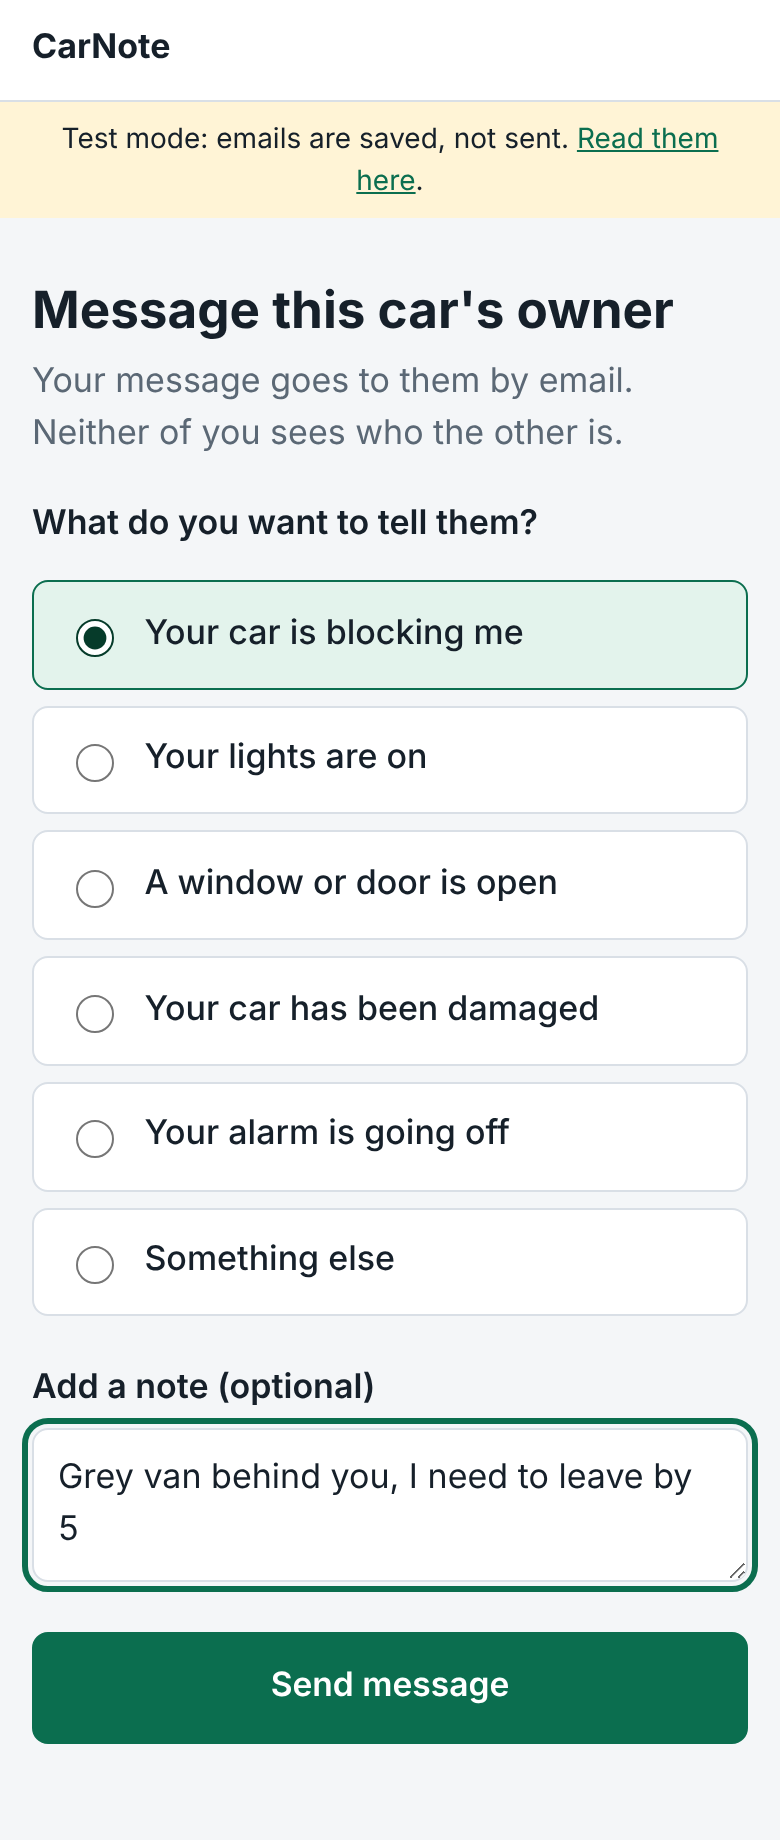
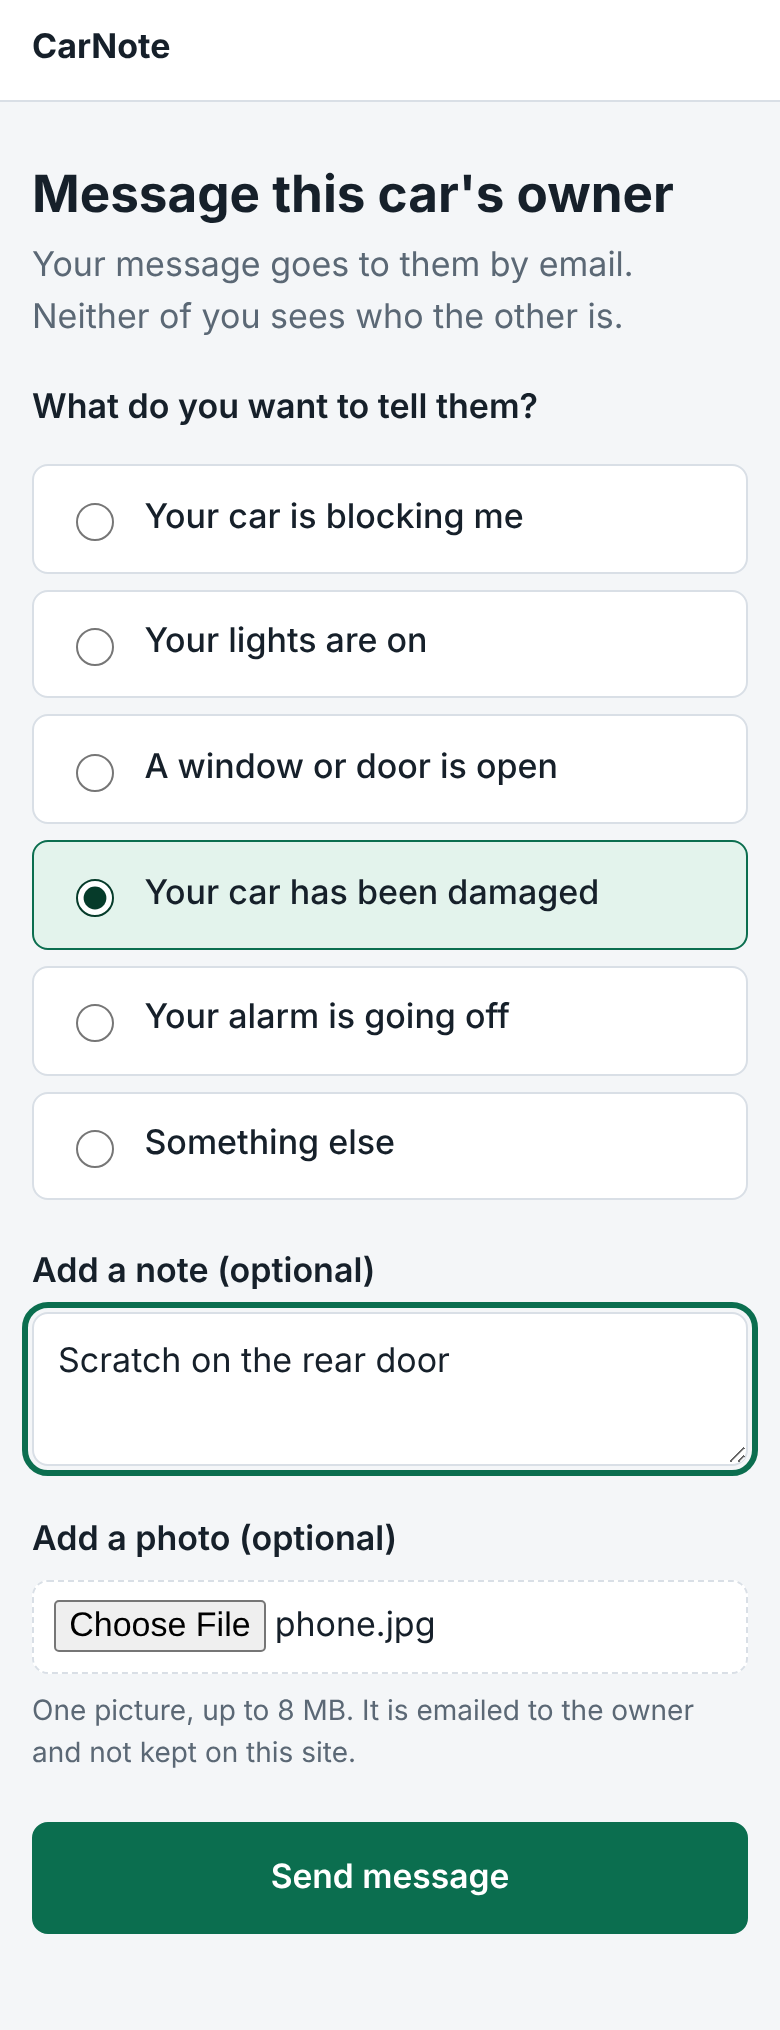
Let scanners attach a photo, emailed to the owner
The scan form takes one optional picture (JPEG, PNG, WebP or GIF, up to
8 MB). It is checked, turned upright, shrunk to 1600px and re-saved as a
JPEG without metadata, then attached to the owner's email. Photos are not
stored; the message only records that one was sent.

Claude-Session: https://claude.ai/code/session_01KMaCDDzHxLD8sNKVPy2YJZ

Changed region(s): [[0.0, 0.0, 1.0, 0.9603]]

diff --git a/templates/scan.html b/templates/scan.html
@@ -10,7 +10,7 @@
 <h1>Message this car's owner</h1>
 <p class="lead">Your message goes to them by email. Neither of you sees who the other is.</p>
 
-<form method="post" action="{{ url_for('send_message', code=car.code) }}">
+<form method="post" enctype="multipart/form-data" action="{{ url_for('send_message', code=car.code) }}">
   <input type="hidden" name="csrf" value="{{ csrf_token() }}">
   <fieldset>
     <legend>What do you want to tell them?</legend>
@@ -25,11 +25,28 @@
   <label for="note">Add a note (optional)</label>
   <textarea id="note" name="note" rows="2" maxlength="{{ max_note }}" placeholder="e.g. Grey van behind you, I need to leave by 5"></textarea>
 
+  <label for="photo">Add a photo (optional)</label>
+  <input id="photo" name="photo" type="file" accept="image/*">
+  <p class="small" id="photo-help">One picture, up to 8 MB. It is emailed to the owner and not kept on this site.</p>
+
   <div class="trap" aria-hidden="true">
     <label>Leave this empty <input name="website" tabindex="-1" autocomplete="off"></label>
   </div>
 
   <button class="primary">Send message</button>
 </form>
+
+<script>
+  // Warn straight away about a picture that is too big, instead of after a slow upload.
+  const photo = document.getElementById("photo");
+  photo.addEventListener("change", () => {
+    const help = document.getElementById("photo-help");
+    if (photo.files[0] && photo.files[0].size > {{ max_photo }}) {
+      photo.value = "";
+      help.textContent = "That picture is over 8 MB. Please choose a smaller one.";
+      help.classList.add("danger");
+    }
+  });
+</script>
 {% endif %}
 {% endblock %}

diff --git a/templates/dashboard.html b/templates/dashboard.html
@@ -28,6 +28,7 @@
       <strong>{{ REASONS[m.reason] }}</strong>
       {% if m.note %}<span class="note">“{{ m.note }}”</span>{% endif %}
       <span class="small">{{ m.created_at|when }}
+        {% if m.photo %}· Photo in your email{% endif %}
         {% if m.reported %}· Reported{% elif m.reply %}· You replied: {{ REPLIES[m.reply] }}{% endif %}
       </span>
       {% if not m.reply and not m.reported %}<a href="{{ url_for('reply', token=m.token) }}">Reply</a>{% endif %}

diff --git a/templates/reply.html b/templates/reply.html
@@ -6,6 +6,7 @@
 <div class="card">
   <p><strong>{{ REASONS[m.reason] }}</strong></p>
   {% if m.note %}<p class="note">“{{ m.note }}”</p>{% endif %}
+  {% if m.photo %}<p class="small">A photo came with this message. It is attached to the email we sent you.</p>{% endif %}
   <p class="small">Sent {{ m.created_at|when }}</p>
 </div>
 

diff --git a/templates/thread.html b/templates/thread.html
@@ -7,6 +7,7 @@
   <p class="small">You said</p>
   <p><strong>{{ REASONS[m.reason] }}</strong></p>
   {% if m.note %}<p class="note">“{{ m.note }}”</p>{% endif %}
+  {% if m.photo %}<p class="small">Your photo was sent with it.</p>{% endif %}
 </div>
 
 <div class="card reply-box {{ 'got' if m.reply }}" aria-live="polite">

diff --git a/static/style.css b/static/style.css
@@ -115,3 +115,5 @@ form > button.primary { width: 100%; margin-top: 1rem; padding: .9rem; font-size
 }
 
 .card > .button { margin-top: .5rem; }
+
+input[type="file"] { width: 100%; padding: .6rem; font: inherit; border: 1px dashed var(--line); border-radius: .5rem; background: var(--card); }

diff --git a/app.py b/app.py
@@ -9,6 +9,7 @@ One file on purpose. The whole product is four ideas:
 
 import hashlib
 import hmac
+import io
 import os
 import re
 import secrets
@@ -23,6 +24,7 @@ from functools import wraps
 from pathlib import Path
 
 import segno
+from PIL import Image, ImageOps
 from flask import (
     Flask,
     abort,
@@ -64,11 +66,14 @@ LINK_RE = re.compile(r"https?://|www\.", re.I)
 LOGIN_LINK_MINUTES = 30
 REPLY_LINK_DAYS = 7
 MAX_NOTE = 280
+MAX_PHOTO_BYTES = 8 * 1024 * 1024  # the largest photo a scanner can attach
+MAX_PHOTO_PIXELS = 50_000_000
+PHOTO_LONGEST_SIDE = 1600  # photos are shrunk to this before being emailed
 MAX_CARS = 5
 MAX_PER_SENDER_PER_HOUR = 3
 MAX_PER_CAR_PER_HOUR = 10
 
-VERSION = "6"  # shown at /status, so you can tell which version of the code is live
+VERSION = "7"  # shown at /status, so you can tell which version of the code is live
 STARTED = datetime.now(timezone.utc).strftime("%Y-%m-%d %H:%M:%S UTC")  # when this server copy started
 SERVER_ID = secrets.token_hex(3)  # differs between server copies, to spot when more than one is running
 
@@ -96,6 +101,7 @@ CREATE TABLE IF NOT EXISTS messages (
     reply TEXT,
     replied_at TEXT,
     reported INTEGER NOT NULL DEFAULT 0,
+    photo INTEGER NOT NULL DEFAULT 0,
     created_at TEXT NOT NULL
 );
 CREATE TABLE IF NOT EXISTS login_requests (
@@ -190,10 +196,40 @@ def notice(title, body, status=200):
     return render_template("notice.html", title=title, body=body), status
 
 
-def send_email(recipient, subject, body):
-    """Sends an email, or in test mode saves it so it can be read at /dev/outbox."""
+def prepare_photo(stream):
+    """Checks an uploaded picture and returns a clean, smaller JPEG copy of it.
+
+    Re-saving the picture proves it really is an image, shrinks it so the email stays small,
+    and drops hidden details such as the phone model and GPS location.
+    Raises ValueError with a message for the visitor if the picture can't be used.
+    """
+    data = stream.read(MAX_PHOTO_BYTES + 1)
+    if len(data) > MAX_PHOTO_BYTES:
+        raise ValueError("That picture is too large. The limit is 8 MB.")
+    try:
+        picture = Image.open(io.BytesIO(data))
+        if picture.format not in ("JPEG", "MPO", "PNG", "WEBP", "GIF"):
+            raise ValueError("unsupported format")
+        if picture.width * picture.height > MAX_PHOTO_PIXELS:
+            raise ValueError("too many pixels")
+        picture = ImageOps.exif_transpose(picture).convert("RGB")  # turn it the right way up
+        picture.thumbnail((PHOTO_LONGEST_SIDE, PHOTO_LONGEST_SIDE))
+        clean = io.BytesIO()
+        picture.save(clean, "JPEG", quality=82)
+        return clean.getvalue()
+    except Exception:
+        raise ValueError("We couldn't read that picture. Please try a JPEG or PNG photo.") from None
+
+
+def send_email(recipient, subject, body, photo=None):
+    """Sends an email, or in test mode saves it so it can be read at /dev/outbox.
+
+    `photo` is optional JPEG data to attach. It is never saved on the server.
+    """
     config = current_app.config
     if config["DEV_OUTBOX"]:
+        if photo:
+            body += f"\n\n[Photo attached: photo.jpg, {len(photo) // 1024 or 1} KB. Not kept in test mode.]"
         db = get_db()
         db.execute(
             "INSERT INTO outbox (recipient, subject, body, created_at) VALUES (?, ?, ?, ?)",
@@ -206,6 +242,8 @@ def send_email(recipient, subject, body):
     message["To"] = recipient
     message["Subject"] = subject
     message.set_content(body)
+    if photo:
+        message.add_attachment(photo, maintype="image", subtype="jpeg", filename="photo.jpg")
     try:
         if config["SMTP_PORT"] == 465:
             server = smtplib.SMTP_SSL(config["SMTP_HOST"], 465, timeout=15)
@@ -275,6 +313,7 @@ def create_app(test_config=None):
         MAIL_FROM=env("MAIL_FROM", "CarNote <no-reply@localhost>"),
         SECRET_KEY=env("SECRET_KEY", ""),
         SESSION_COOKIE_SAMESITE="Lax",
+        MAX_CONTENT_LENGTH=MAX_PHOTO_BYTES + 2 * 1024 * 1024,  # refuse anything bigger outright
     )
     app.config.update(test_config or {})
     if not app.config["SECRET_KEY"]:
@@ -304,18 +343,23 @@ def create_app(test_config=None):
             pass  # no backup yet: this is the first run
         app.config.update(DATABASE=working, DURABLE_COPY=durable)
 
-    try:
+    def prepare_database():
         with sqlite3.connect(app.config["DATABASE"]) as db:
             db.executescript(SCHEMA)
             db.execute("SELECT COUNT(*) FROM owners").fetchone()
+            # Databases made before photos existed need the new column added.
+            if "photo" not in [column[1] for column in db.execute("PRAGMA table_info(messages)")]:
+                db.execute("ALTER TABLE messages ADD COLUMN photo INTEGER NOT NULL DEFAULT 0")
+
+    try:
+        prepare_database()
     except sqlite3.DatabaseError:
         if not app.config["DURABLE_COPY"]:
             raise
         # The backup we restored is damaged. Set it aside and start clean rather than crash.
         app.logger.error("Restored database was unreadable; starting with an empty one")
         os.replace(app.config["DATABASE"], app.config["DATABASE"] + ".damaged")
-        with sqlite3.connect(app.config["DATABASE"]) as db:
-            db.executescript(SCHEMA)
+        prepare_database()
 
     @app.teardown_appcontext
     def close_db(_error):
@@ -486,7 +530,7 @@ def create_app(test_config=None):
 
     @app.get("/c/<code>")
     def scan(code):
-        return render_template("scan.html", car=find_car(code), max_note=MAX_NOTE)
+        return render_template("scan.html", car=find_car(code), max_note=MAX_NOTE, max_photo=MAX_PHOTO_BYTES)
 
     @app.post("/c/<code>")
     def send_message(code):
@@ -526,10 +570,20 @@ def create_app(test_config=None):
                 429,
             )
 
+        photo = None
+        upload = request.files.get("photo")
+        if upload and upload.filename:
+            try:
+                photo = prepare_photo(upload.stream)
+            except ValueError as problem:
+                flash(str(problem))
+                return back
+
         thread = secrets.token_urlsafe(18)
         cursor = db.execute(
-            "INSERT INTO messages (car_id, thread, sender, reason, note, created_at) VALUES (?, ?, ?, ?, ?, ?)",
-            (car["id"], thread, sender, reason, note, stamp()),
+            "INSERT INTO messages (car_id, thread, sender, reason, note, photo, created_at)"
+            " VALUES (?, ?, ?, ?, ?, ?, ?)",
+            (car["id"], thread, sender, reason, note, 1 if photo else 0, stamp()),
         )
         db.commit()
 
@@ -541,8 +595,10 @@ def create_app(test_config=None):
             f"{car['nickname']}: {REASONS[reason]}",
             f"Someone scanned the sticker on {car['nickname']} and sent you this:\n\n"
             f"    {REASONS[reason]}{quoted_note}\n\n"
-            f"Reply with one tap. They will not see your name or email address:\n{reply_link}\n\n"
+            + ("They attached a photo, which is included with this email.\n\n" if photo else "")
+            + f"Reply with one tap. They will not see your name or email address:\n{reply_link}\n\n"
             "The same link lets you report this message or pause your sticker.",
+            photo=photo,
         )
         return redirect(url_for("thread", thread=thread))
 
@@ -621,6 +677,10 @@ def create_app(test_config=None):
             last_backup=app.config["LAST_BACKUP"] if app.config["DURABLE_COPY"] else "not used",
             email="test mode" if app.config["DEV_OUTBOX"] else "sending",
         )
+
+    @app.errorhandler(413)
+    def too_large(_error):
+        return notice("That picture is too large", "The limit is 8 MB. Go back and choose a smaller one.", 413)
 
     @app.errorhandler(404)
     def not_found(error):

diff --git a/tests/test_app.py b/tests/test_app.py
@@ -1,5 +1,6 @@
 """Tests that walk through the product the way real people would use it."""
 
+import io
 import re
 import sqlite3
 import sys
@@ -201,7 +202,7 @@ def test_site_keeps_working_if_the_backup_location_fails(tmp_path):
 
 def test_status_page_reports_how_the_site_is_running(tmp_path, app):
     report = app.test_client().get("/status").json
-    assert (report["version"], report["storage"], report["email"], report["cars"]) == ("6", "direct file", "test mode", 0)
+    assert (report["version"], report["storage"], report["email"], report["cars"]) == ("7", "direct file", "test mode", 0)
     (tmp_path / "bucket").mkdir()
     hosted = hosted_app(tmp_path)
     sign_up(hosted)
@@ -231,3 +232,72 @@ def test_stale_sign_in_after_a_data_reset_is_sent_home_not_stuck(app):
     assert "Get my free sticker" in owner.get("/", follow_redirects=True).text
     _other, other_code = sign_up(app, "other@example.com")  # everyone else carries on unaffected
     assert app.test_client().get(f"/c/{other_code}").status_code == 200
+
+
+def picture(kind="JPEG", size=(3000, 2000)):
+    from PIL import Image
+
+    data = io.BytesIO()
+    Image.new("RGB", size, "teal").save(data, kind)
+    data.seek(0)
+    return data
+
+
+def send_with_photo(client, code, upload, name="IMG_0001.jpg"):
+    return client.post(
+        f"/c/{code}",
+        data={"csrf": csrf(client), "reason": "damage", "note": "Scratch on the door", "photo": (upload, name)},
+        content_type="multipart/form-data",
+    )
+
+
+def test_scanner_can_attach_a_photo(app):
+    owner, code = sign_up(app)
+    scanner = app.test_client()
+    assert 'type="file"' in scanner.get(f"/c/{code}").text
+    sent = send_with_photo(scanner, code, picture())
+    assert "Your photo was sent" in scanner.get(sent.headers["Location"]).text
+    email = emails(app)[-1]
+    assert "They attached a photo" in email["body"] and "Photo attached: photo.jpg" in email["body"]
+    assert "Photo in your email" in owner.get("/dashboard").text
+    assert "A photo came with this message" in app.test_client().get(link_in(email)).text
+
+
+def test_photo_is_shrunk_and_stripped_before_sending():
+    from PIL import Image
+
+    from app import prepare_photo
+
+    original = picture(size=(4000, 3000))
+    clean = Image.open(io.BytesIO(prepare_photo(original)))
+    assert clean.format == "JPEG" and max(clean.size) == 1600 and not clean.getexif()
+
+
+def test_things_that_are_not_pictures_are_refused(app):
+    _owner, code = sign_up(app)
+    before = len(emails(app))
+    for fake in (io.BytesIO(b"MZ this is a program, not a picture"), io.BytesIO(b"%PDF-1.7 a document")):
+        assert send_with_photo(app.test_client(), code, fake, "photo.jpg").status_code == 302
+    assert len(emails(app)) == before
+
+
+def test_oversized_upload_is_refused(app):
+    _owner, code = sign_up(app)
+    huge = io.BytesIO(b"x" * (11 * 1024 * 1024))
+    assert send_with_photo(app.test_client(), code, huge).status_code == 413
+
+
+def test_message_without_a_photo_still_works(app):
+    _owner, code = sign_up(app)
+    assert send(app.test_client(), code).status_code == 302
+    assert "Photo attached" not in emails(app)[-1]["body"]
+
+
+def test_older_database_gains_the_photo_column(tmp_path):
+    path = tmp_path / "old.sqlite3"
+    first = create_app({"TESTING": True, "DATABASE": str(path), "SECRET_KEY": "x", "SMTP_HOST": ""})
+    with sqlite3.connect(path) as db:
+        db.execute("ALTER TABLE messages DROP COLUMN photo")  # how it looked before this feature
+    again = create_app({"TESTING": True, "DATABASE": str(path), "SECRET_KEY": "x", "SMTP_HOST": "", "BASE_URL": "http://localhost"})
+    _owner, code = sign_up(again)
+    assert send(again.test_client(), code).status_code == 302

diff --git a/README.md b/README.md
@@ -12,7 +12,7 @@ No app to install, no password, and the scanner needs no account at all.
 
 1. **Owner signs up with an email address.** We email a sign-in link. There is no password.
 2. **Each car gets a random code**, such as `Z4A7WM5K`, printed as a QR code. The code contains nothing about the owner.
-3. **A scanner picks a ready-made message** and can add a short note. We email it to the owner.
+3. **A scanner picks a ready-made message** and can add a short note and one photo. We email it to the owner, with the photo attached.
 4. **The owner taps a ready-made reply.** It appears on the page the scanner still has open.
 
 ## Privacy and abuse protection
@@ -22,6 +22,7 @@ No app to install, no password, and the scanner needs no account at all.
 - Devices are told apart by a scrambled fingerprint, so no IP addresses are stored.
 - One device can send 3 messages an hour to a car, and a car receives at most 10 an hour.
 - Links are not allowed in notes, which blocks the obvious phishing trick.
+- Photos must be real pictures (JPEG, PNG, WebP or GIF, up to 8 MB). Each one is shrunk and re-saved before sending, which removes hidden details such as GPS location. Photos are never stored on the site.
 - The owner can report a message (which blocks that device) or pause the sticker, straight from the email.
 
 ## Run it on your computer
